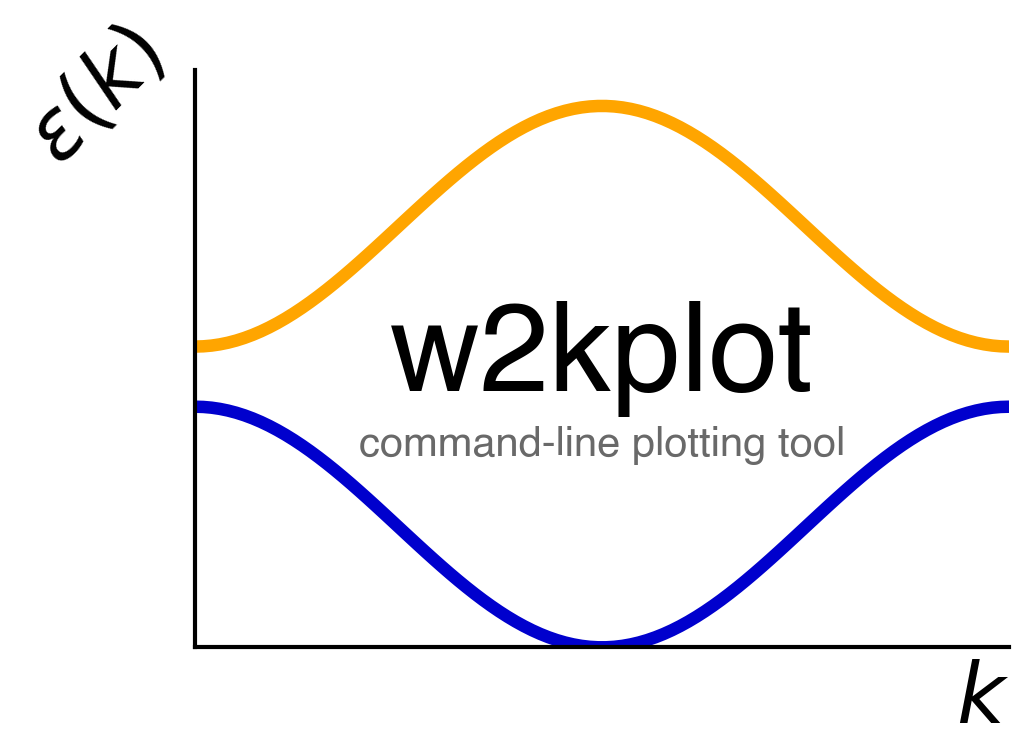
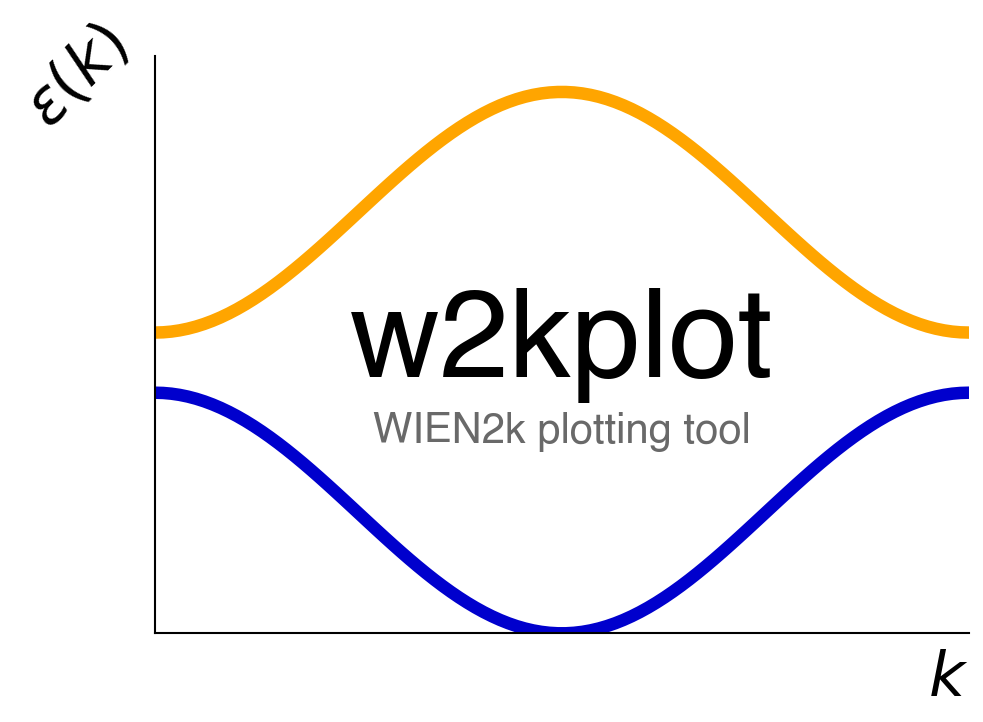
update portfolio

diff --git a/_portfolio/w2kplot.md b/_portfolio/w2kplot.md
@@ -1,9 +1,8 @@
 ---
 title: "w2kplot"
-excerpt: "command line tool for plotting band structures from WIEN2k calculations <img width=200 src='/images/w2kplot.png'/>"
+excerpt: "Matplotlib wrapper for post-processing WIEN2k results <img width=200 src='/images/w2kplot.png'/>"
 collection: portfolio
 ---
-
 
 <p align="center">
 <a href="https://github.com/harrisonlabollita/w2kplot">
@@ -11,30 +10,77 @@ collection: portfolio
 </a>
 </p>
 
-**w2kplot** is a Python program to create publication quality band structure plots from [WIEN2k](http://susi.theochem.tuwien.ac.at) density-functional theory (DFT) calculations. The user simply runs the program inside the directory with the required files from Wien2k and it takes care of the rest! 
 
-**This program works! But it is still in beta. See below**
+**w2kplot** is a [Matplotlib](https://matplotlib.org) wrapper written in Python to create publication quality plots from data generated from [WIEN2k](http://susi.theochem.tuwien.ac.at) density-functional theory (DFT) calculations.
 
-## Example
-Inside a directory with files: case.bands.agr and case.spaghetti\_ene (minimal files), simply type
+- [Getting Started](#started)
+- [Installation](#installation)
+- [Documentation](#documentation)
 
-```bash
-	w2kplot --switch bands
+
+<a name="started"></a>
+## Getting Started
+w2kplot is designed to be intuitive for any one familiar with matplotlib. It is seamless integrated, such that the user only has to worry showcasing their results, not how to showcase their resutls. For example, we can plot the band structure from calculation `case` in just a few lines of Python code.
+
+```python
+	# plot basic band structure
+	from w2kplot import Bands, band_plot
+	
+	plt.figure()
+	dft_bands = Bands(spaghetti='case.spaghetti_ene', klist_band='case.klist_band')
+	band_plot(dft_bands, 'k-', lw=1.5)
+	plt.show()
 ```
-This will plot the E(k) vs the high-symmetry k-path detected from the case.klist\_band. The user can provide this information as well. Spin-polarized cases work similarily just add ``--spin join or sep``, where ``join`` will plot spin channels on top of each other and ``sep`` will plot spin channels separately.
 
-
-For fatbands,
-
-```bash
-	w2kplot --init --switch fatbands
-```
-The init flag creates the ``w2kplot.init`` file which tells the progam which atom and orbitals you would like to plot the fatbands for. To use this feature, you must provide the case.qtl (for orbital content), case.struct (to create init file), and case.scf (to grab the Fermi energy).
-
+<a name="installation"></a>
 ## Installation
 
-Currently, if you clone this repository and inside the repo issue the command you should be good to go!
-
+Currently, this is the only way to install w2kplot
 ```bash
     pip install -e .
 ```
+
+<a name="documentation"><a/>
+## Documenation
+
+w2kplot provides the user with various data objects: `Bands`, `FatBands`, `DensityOfStates`, which can then be passed to plotting functions `band_plot`, `fatband_plot`, `dos_plot`, which unravel the data contained in each object and create beautiful publication quality figures. We show case some examples [here](examples/README.md).
+
+### Bands
+`Bands` is a `w2kplot` data object that contains the information about the band structure (extracted from case.spaghetti\_ene). This object takes the following keywords:
+
+`spaghetti` (optional): filename of the case.spaghetti\_ene file.
+
+`klist_band` (optional): filename of the case.klist\_band file.
+
+If either of these files are not provided, w2kplot looks in the current directory for any files with the corresponding extensions.
+
+### FatBands
+`FatBand` is a child of the `Bands` object, but requires a few more inputs from the user in order to determine what to plot. They keyword arguments for this object are the following:
+
+`atoms` (required): a list of atoms for which to plot the orbital character. 
+
+`orbitals` (required): a list of lists, where there is a list of orbital indices corresponding to the list of atoms. The indices are taken from the `case.qtl` file.
+
+`colors` (optional): a list of colors in the same format as the orbitals.
+ 
+`weight` (optional): a scaling factor to scale the orbtial character of the bands. The multiplicty of each atom is considered.
+
+`spaghetti` (optional): same as `Bands`.
+
+`klist_band` (optional): same as `Bands`.
+
+`qtl` (optional): a `case.qtl` file to obtain the orbital character. This file is obtained after running `x lapw2 -band -qtl`. If not provided, `w2kplot` looks in the current directory.
+
+`eF` (optional): the Fermi energy in Rydbergs. If not provided, this value is taken from the `case.scf` file.
+
+`struct` (optional): the structure file from WIEN2k. If not provided, `w2kplot` looks in the current directory.
+
+### DensityOfStates
+
+`DensityOfStates` is an object that contains the information about the density of states, which is obtained from `case.dosXev` files. The keyword arguments of this file are the following:
+
+`dos` (optional): a list dosXev files. If not provided, `w2kplot` will obtain all the files in the current directory with this file format.
+
+`dos_dict` (optional): a Python dictionary that matches each column in the dosXev files to a label name for creating a legend in the final plot. If not provided, this is built from the headers in the dosXev files.
+
+**PRs and feedback are welcome!**
